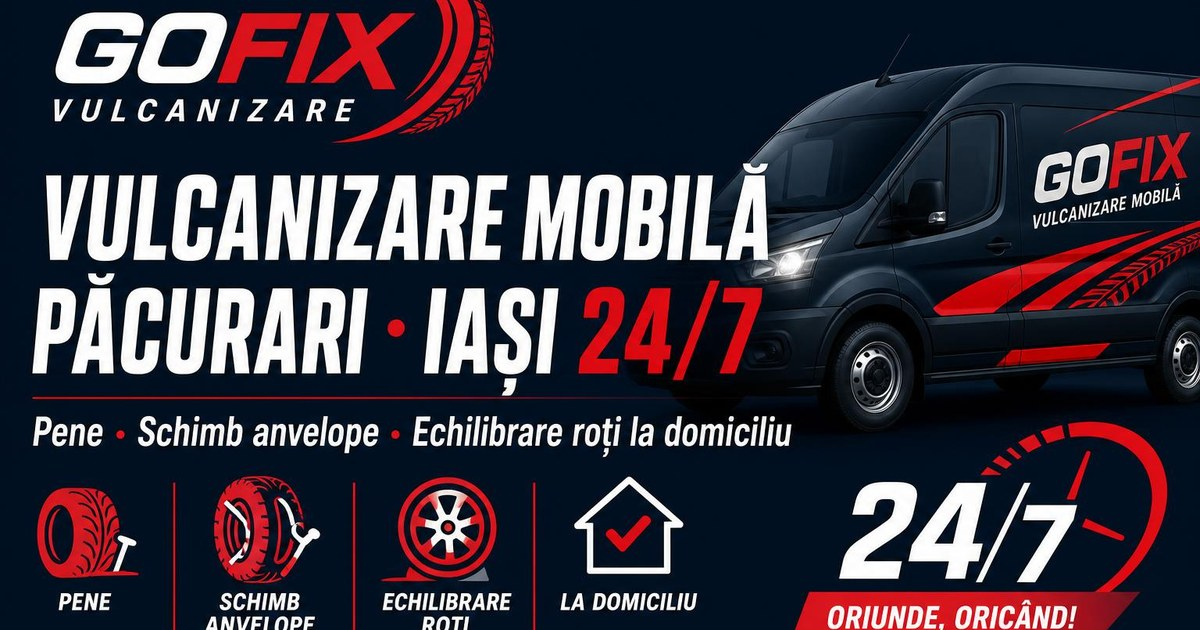
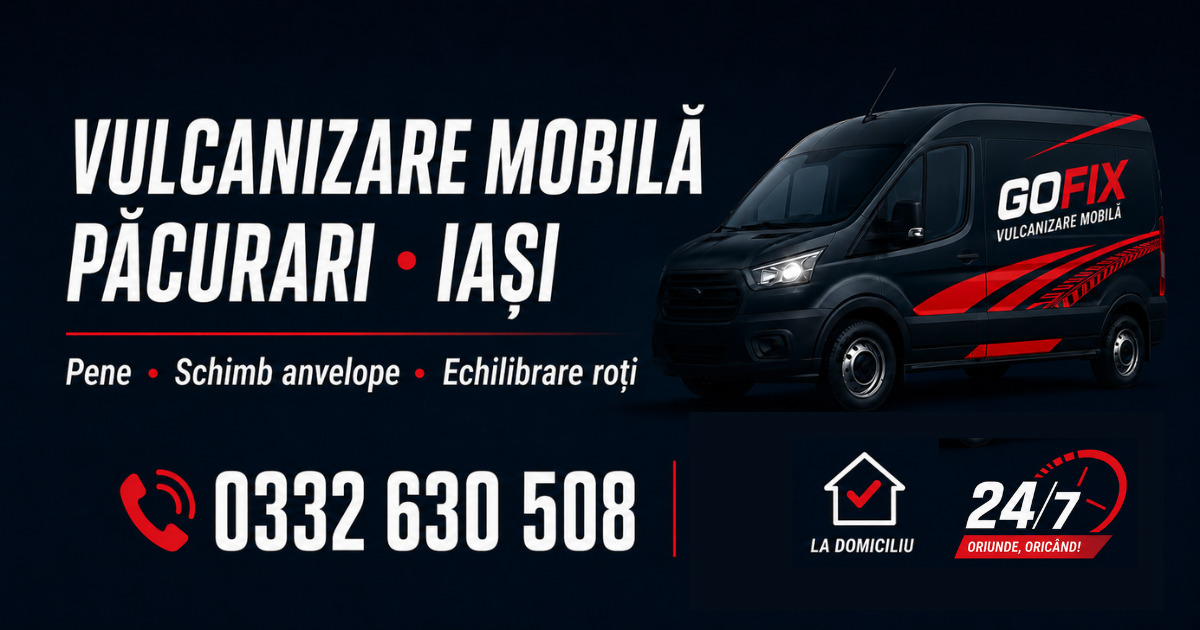
Changes

diff --git a/.lovable/plan.md b/.lovable/plan.md
@@ -1,17 +1,17 @@
-Înlocuiesc numărul de telefon `0332 630 507` cu `0332 630 508` (afișat ca `+40332630508` unde apare cu prefix internațional) în toate fișierele.
+## Ce e de făcut
 
-## Fișiere de modificat
-- `src/routes/index.tsx` — meta descriptions (3×), JSON-LD `telephone` (2×), constante `PHONE` și `PHONE_DISPLAY`
-- `src/routes/__root.tsx` — meta description, og:description, twitter:description
-- `src/routes/vulcanizare-pacurari.tsx` — FAQ, constante PHONE/PHONE_DISPLAY, twitter:description, JSON-LD telephone (3×)
-- `src/routes/vulcanizare-mobila-miroslava.tsx` — FAQ, constante PHONE/PHONE_DISPLAY, twitter:description, JSON-LD telephone (3×)
-- `src/routes/llms[.]txt.ts` — text contact
-- `src/lib/site-pages.ts` — descriere homepage
+Meta tag-urile `og:image` și `twitter:image` din `src/routes/vulcanizare-pacurari.tsx` indică deja către `https://vulcanizaremobila-iasi.ro/og-pacurari.jpg` (liniile 536 și 546). Nu e nevoie să modific codul.
 
-## Înlocuiri (literale)
-- `+40 332 630 507` → `+40 332 630 508`
-- `+40332630507` → `+40332630508`
-- `0332 630 507` → `0332 630 508`
-- `0332630507` → `0332630508`
+Tot ce trebuie făcut este să **înlocuiesc fișierul** `public/og-pacurari.jpg` cu imaginea pe care ai atașat-o (banner-ul cu duba GoFix și textul "VULCANIZARE MOBILĂ PĂCURARI · IAȘI" + numărul 0332 630 508).
 
-Numărul WhatsApp `0750 291 020` rămâne neschimbat.
+## Pași
+
+1. Copiez `user-uploads://vulcanizare_mobila_pacurari.jpg` peste `public/og-pacurari.jpg` (overwrite).
+2. Verific dimensiunile (ar trebui 1200×630 — dacă diferă, redimensionez la 1200×630 ca să corespundă cu `og:image:width/height` din meta).
+3. Confirm că noua imagine apare la URL-ul publicat.
+
+## Nu modific
+
+- Nu schimb codul din `vulcanizare-pacurari.tsx` — meta-urile sunt deja corecte.
+- Nu ating `og-home.jpg` sau `og-miroslava.jpg`.
+- Nu schimb `og:image:alt` / `twitter:image:alt` — descrierea actuală se potrivește cu noul banner.
